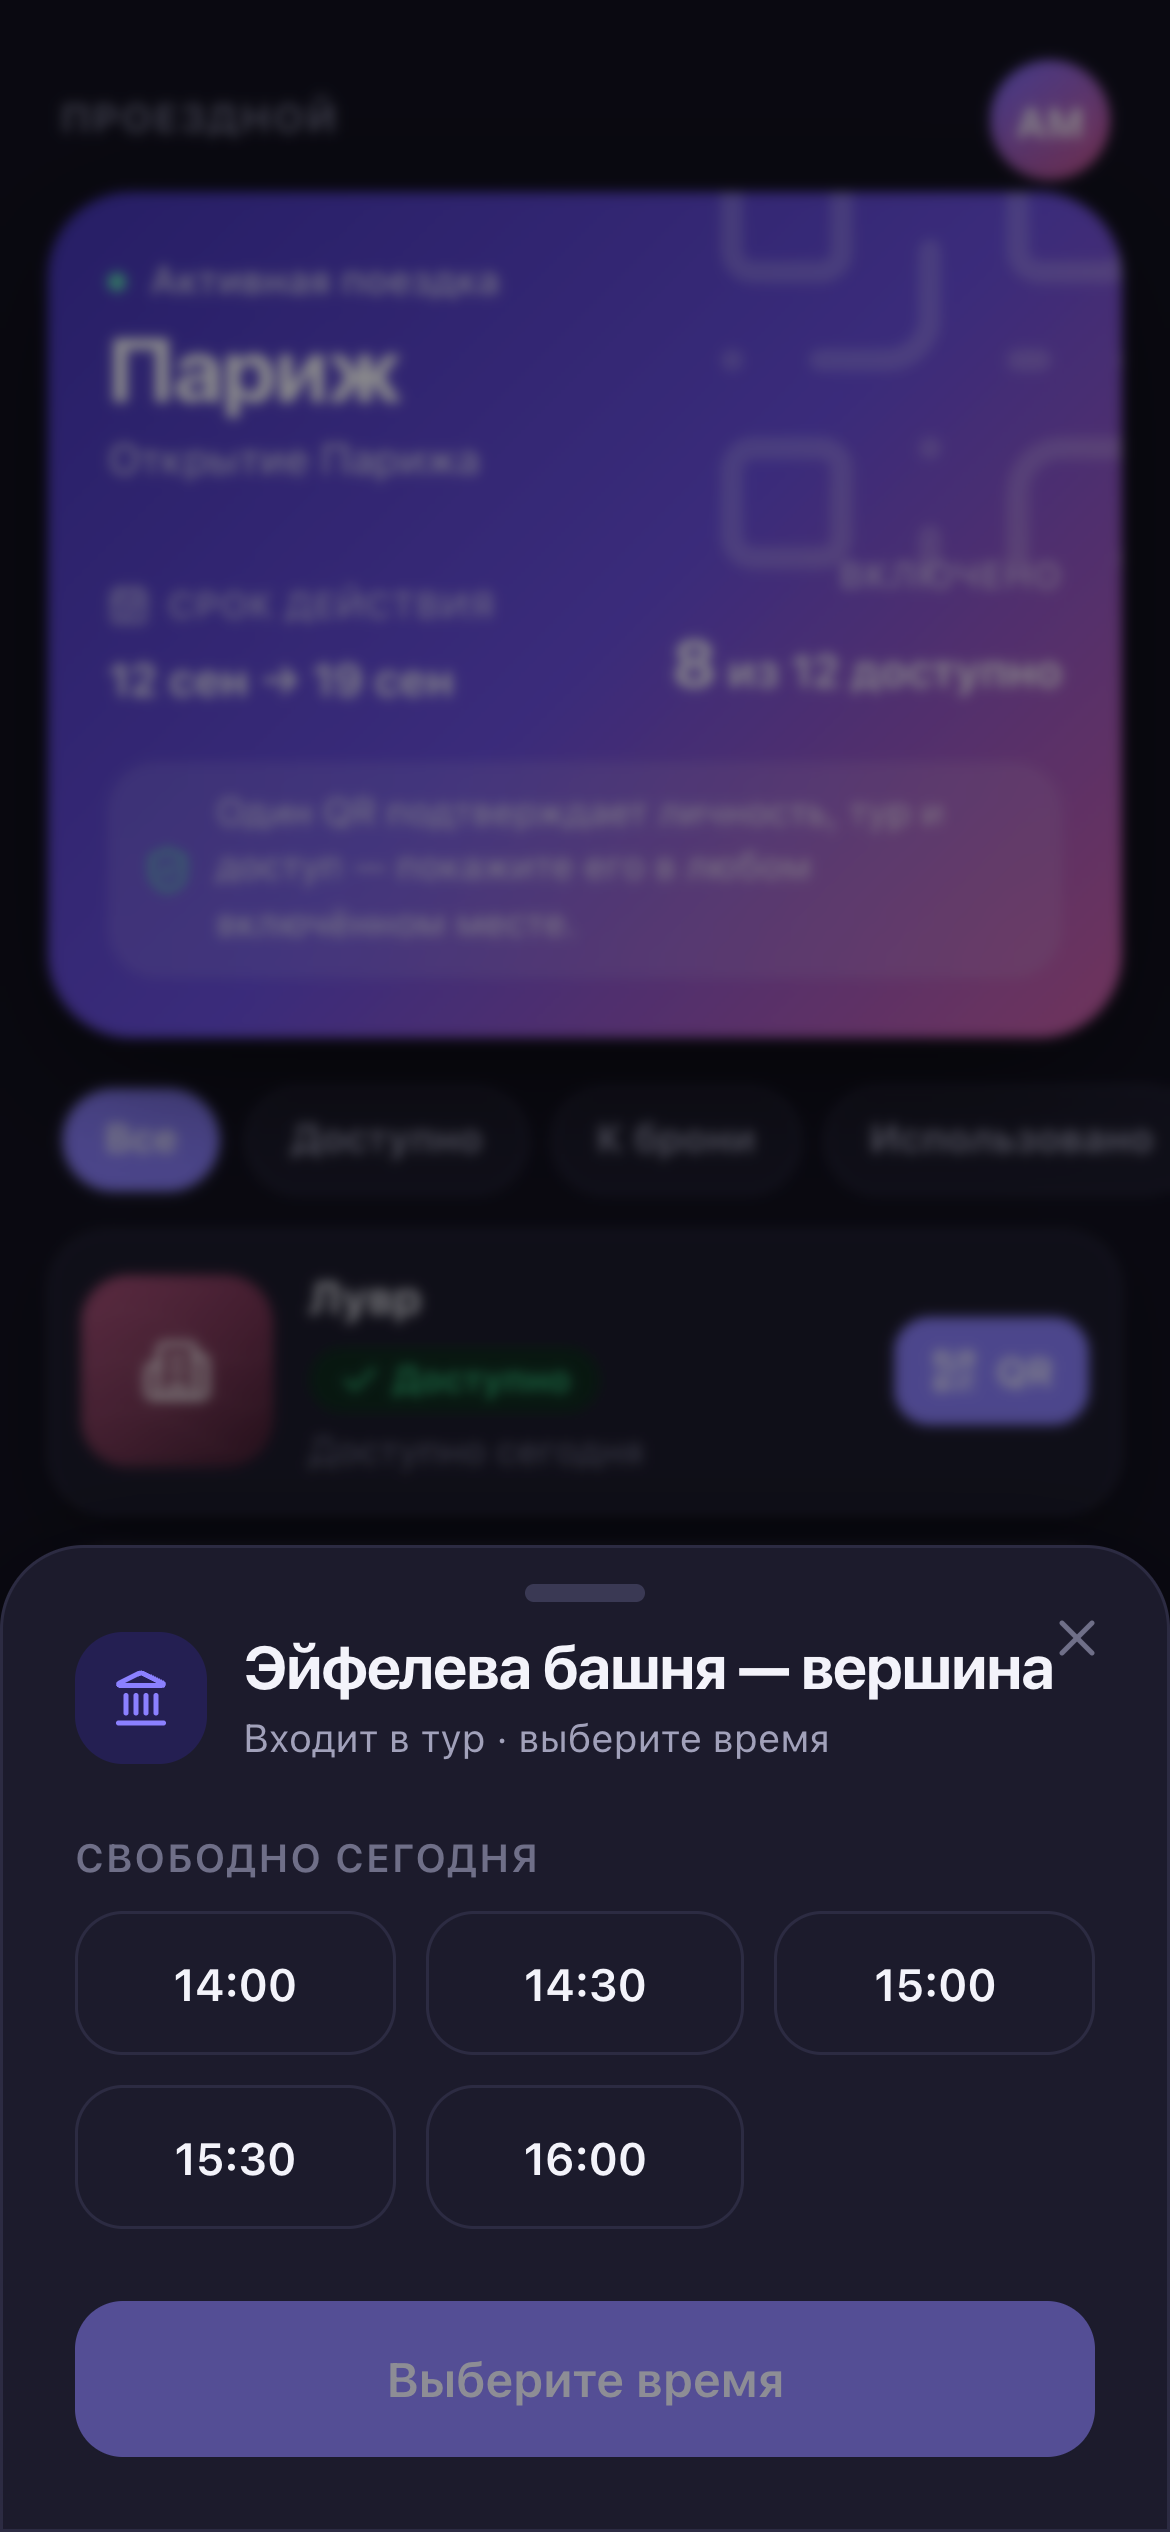
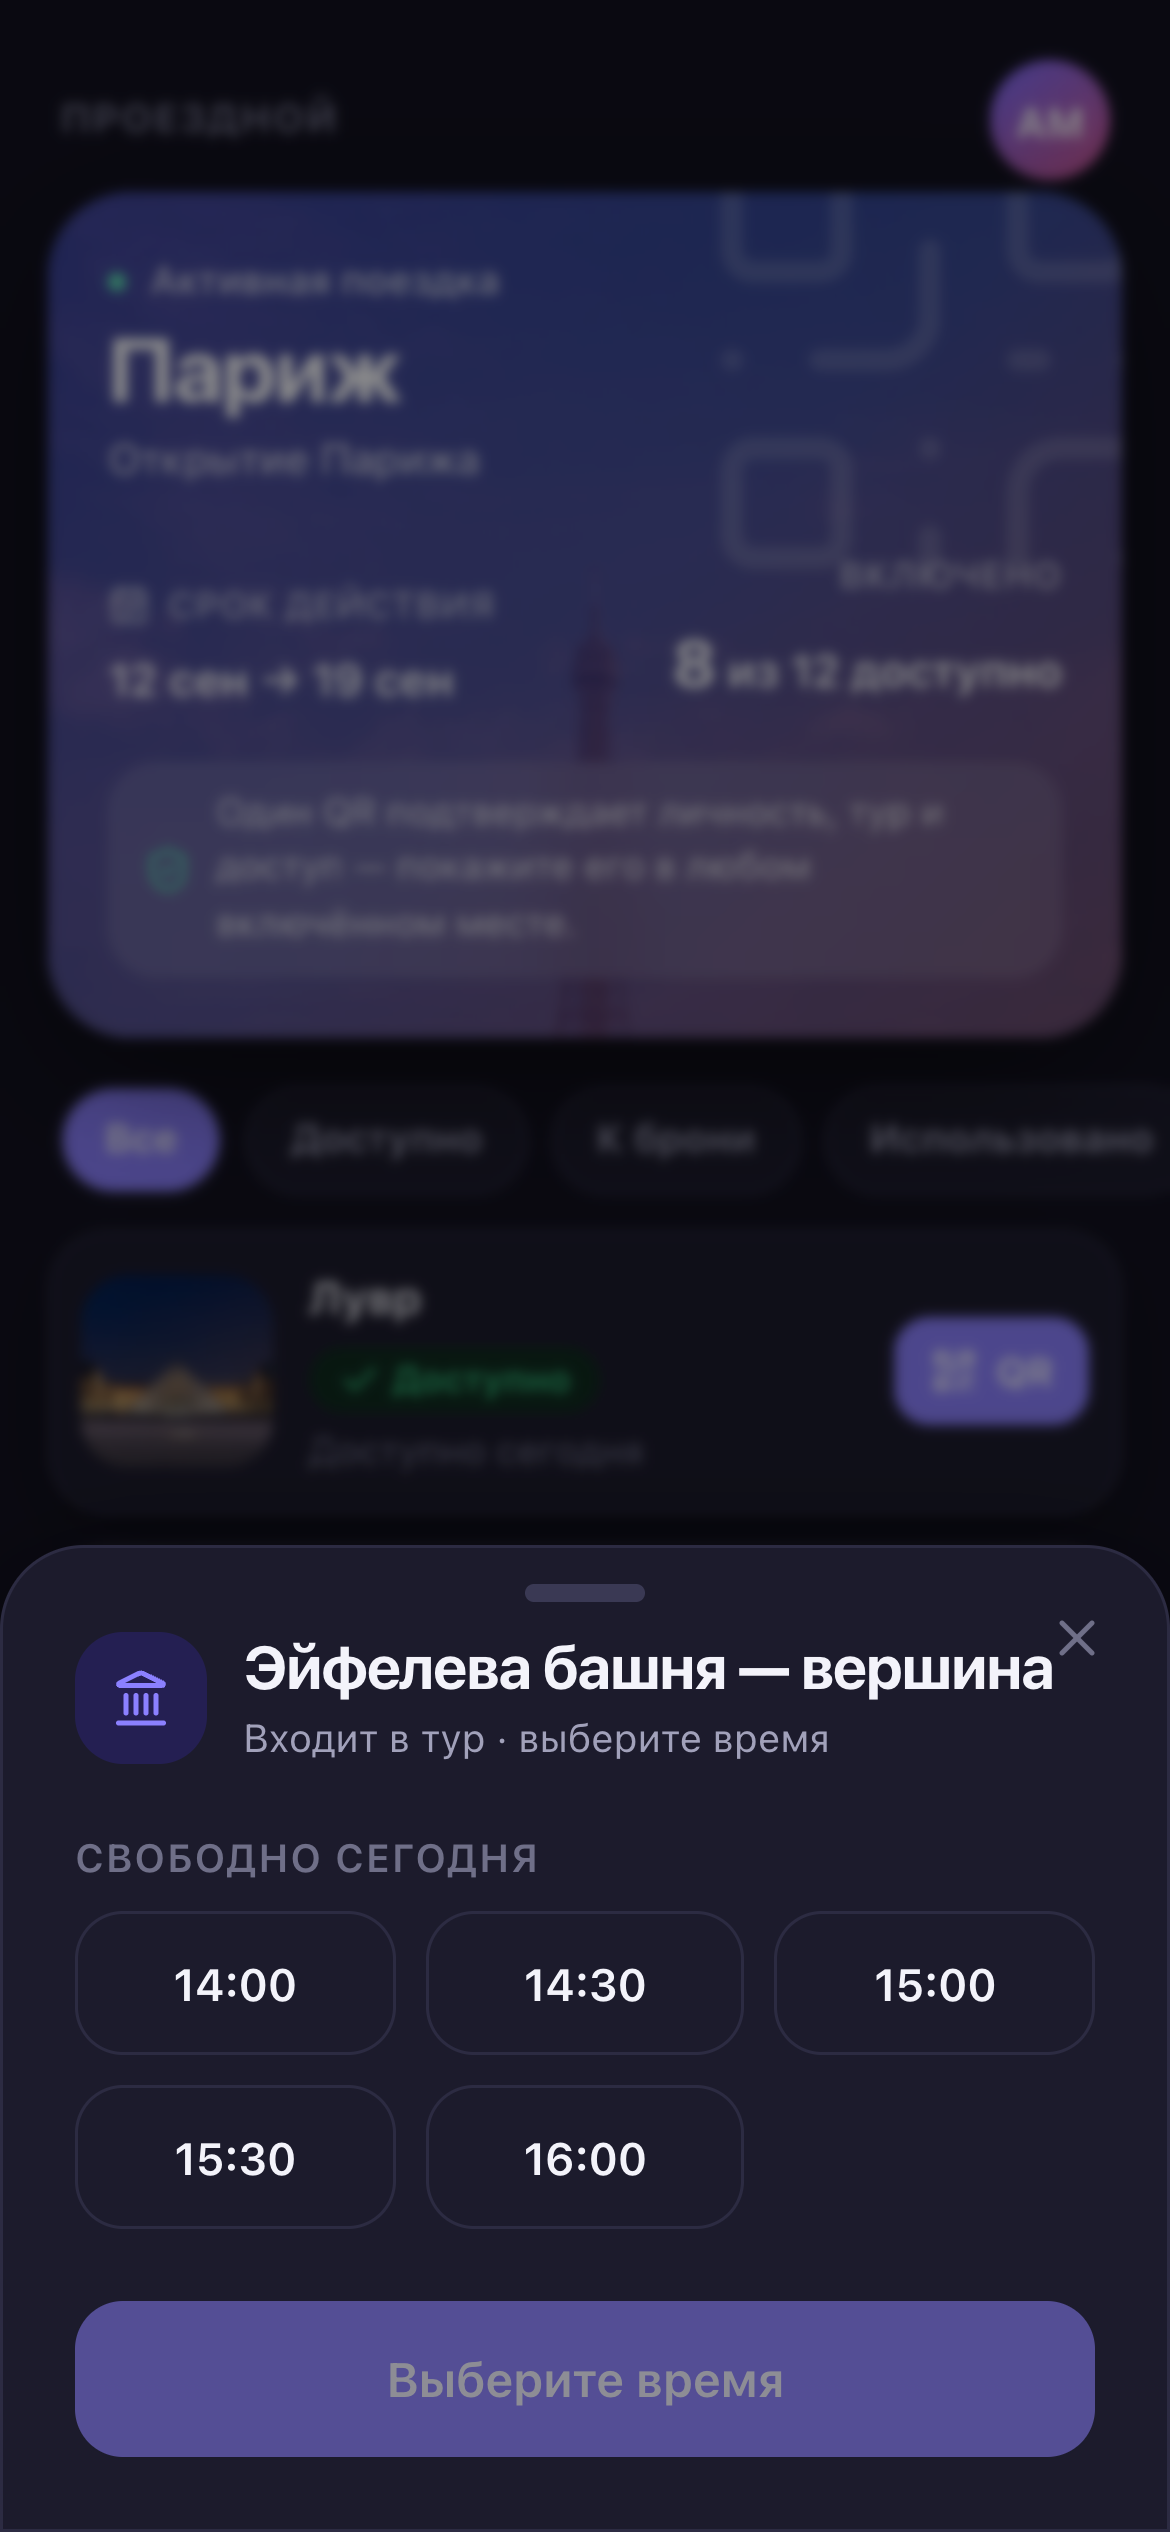
Voyage: real venue photos in pass/explore + Eiffel pass header; reorder Compliance→Voyage→Signet

Changed region(s): [[0.0308, 0.0624, 0.9846, 0.4368], [0.0615, 0.4992, 0.2462, 0.5616]]

diff --git a/main.js b/main.js
@@ -292,6 +292,9 @@ const caseStudies = [
   }
 
 ];
+/* Display order (Compliance → Voyage → Signet → Sentinel → …). */
+const CS_ORDER = ['ai-landings', 'voyage', 'signet', 'sentinel', 'foodi', 'speakup', 'aml', 'digital-office', 'spk'];
+caseStudies.sort((a, b) => CS_ORDER.indexOf(a.id) - CS_ORDER.indexOf(b.id));
 const CS_RU = {
   sentinel: {
     kind: 'Комплаенс · Проверка контрагентов',
@@ -591,7 +594,7 @@ if (list) {
         ${(MEANING[lang]||MEANING.en)[raw.id] ? `<p class="proj-meaning">${(MEANING[lang]||MEANING.en)[raw.id]}</p>` : ''}
         <p class="subtitle">${p.subtitle}</p>
         <div class="benefits">${p.benefits.map(b => `<span>${b}</span>`).join('')}</div>
-        <div class="gallery-wrap"><div class="gallery preview${MOBILE[raw.id] ? ' preview-mobile' : ''}">${(PREVIEW[raw.id] || ['shots/'+raw.id+'.png']).map(src => `<div class="pshot${MOBILE[raw.id] ? ' pshot-tall' : ''}"><img src="${src}?v=hd3" alt="${raw.name}" loading="lazy" draggable="false" /></div>`).join('')}</div></div>`;
+        <div class="gallery-wrap"><div class="gallery preview${MOBILE[raw.id] ? ' preview-mobile' : ''}">${(PREVIEW[raw.id] || ['shots/'+raw.id+'.png']).map(src => `<div class="pshot${MOBILE[raw.id] ? ' pshot-tall' : ''}"><img src="${src}?v=hd4" alt="${raw.name}" loading="lazy" draggable="false" /></div>`).join('')}</div></div>`;
       list.appendChild(el);
       if (animate) io.observe(el);
       const g = el.querySelector('.gallery');
@@ -629,7 +632,7 @@ if (csEl) {
       </div>
       ${(function(){var x=(PSR[lang]||PSR.en)[raw.id];return x?`<div class="psr"><div class="psr-card"><h3>${t('cs.problems')}</h3><p>${x.problem}</p></div><div class="psr-card"><h3>${t('cs.solution')}</h3><p>${x.solution}</p></div><div class="psr-card"><h3>${t('cs.results')}</h3><p>${x.result}</p></div></div>`:'';})()}
       ${(function(){var m=(METRICS[lang]||METRICS.en)[raw.id];return (m&&m.length)?`<div class="cs-metrics"><p class="cs-label cs-metrics-label">${t('cs.metrics')}</p><div class="cs-metrics-grid">`+m.map(function(x){return `<div class="cs-metric"><div class="cs-metric-n">${x.n}</div><div class="cs-metric-l">${x.l}</div></div>`;}).join('')+`</div></div>`:'';})()}
-      ${(SCREENS[raw.id]||[]).length ? `<div class="cs-gallery-label"><span>${t('cs.gallery')}</span></div>` + (MOBILE[raw.id] ? '<div class="cs-mobile-grid">' : '') + (SCREENS[raw.id]).map(src => `<div class="cs-shot${MOBILE[raw.id] ? ' cs-shot-tall' : ''}"><img src="${src}?v=hd3" alt="${raw.name}" loading="lazy" /></div>`).join('') + (MOBILE[raw.id] ? '</div>' : '') : ''}
+      ${(SCREENS[raw.id]||[]).length ? `<div class="cs-gallery-label"><span>${t('cs.gallery')}</span></div>` + (MOBILE[raw.id] ? '<div class="cs-mobile-grid">' : '') + (SCREENS[raw.id]).map(src => `<div class="cs-shot${MOBILE[raw.id] ? ' cs-shot-tall' : ''}"><img src="${src}?v=hd4" alt="${raw.name}" loading="lazy" /></div>`).join('') + (MOBILE[raw.id] ? '</div>' : '') : ''}
       <div class="cs-next"><span>${t('cs.next')}</span><a href="casestudy.html?id=${nextRaw.id}">${nextRaw.name} →</a></div>`;
     const g = csEl.querySelector('.gallery');
     if (g) { enableDragScroll(g); attachDragBadge(csEl.querySelector('.gallery-wrap'), g); }

diff --git a/index.html b/index.html
@@ -63,7 +63,7 @@
   <div class="trusted reveal">
     <span class="trusted-label" data-i18n="trusted.label">Selected product work</span>
     <div class="logos">
-      <span>Compliance</span><span>Sentinel</span><span>Signet</span><span>Foodi</span><span>Voyage</span><span>Speak&nbsp;Up</span><span>Aegis</span><span>Cadence</span><span>Argus</span>
+      <span>Compliance</span><span>Voyage</span><span>Signet</span><span>Sentinel</span><span>Foodi</span><span>Speak&nbsp;Up</span><span>Aegis</span><span>Cadence</span><span>Argus</span>
     </div>
   </div>
 
